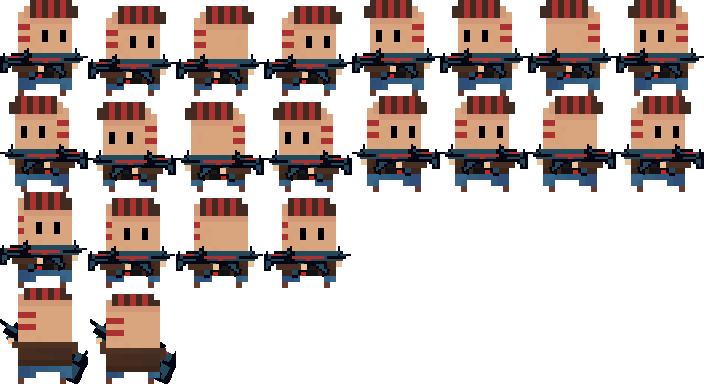
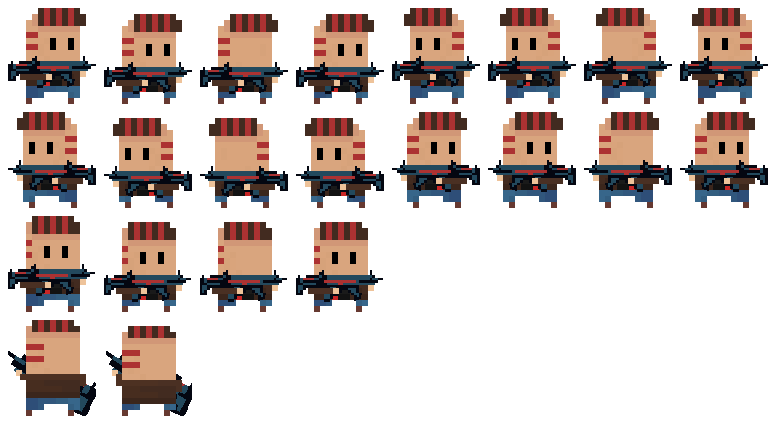
Import sprite sheet

Changed region(s): [[0.0, 0.0, 1.0, 1.0]]

diff --git a/Player.java b/Player.java
@@ -78,7 +78,7 @@ public class Player extends JPanel implements ActionListener{
 
     public Graphics animateASSAULT(Graphics g){
         getImg("Character1_Gun");
-        resizeImg(0, 0, 96, 96);
+        resizeImg(0, 0, 112, 112);
         g.drawImage(img, 0, 0, null);
         return g;
     }// !Do this

diff --git a/GameRunner.java b/GameRunner.java
@@ -42,6 +42,7 @@ public class GameRunner{
         p = new Player(100, "ASSAULT", 50, 20);//*Player
         p.setSize(new Dimension(112, 112));
         p.setLocation(grid[11][7]);
+        p.setBackground(new Color(0, 0, 0, 0));
         mainPanel.add(p, 0);
         
 
